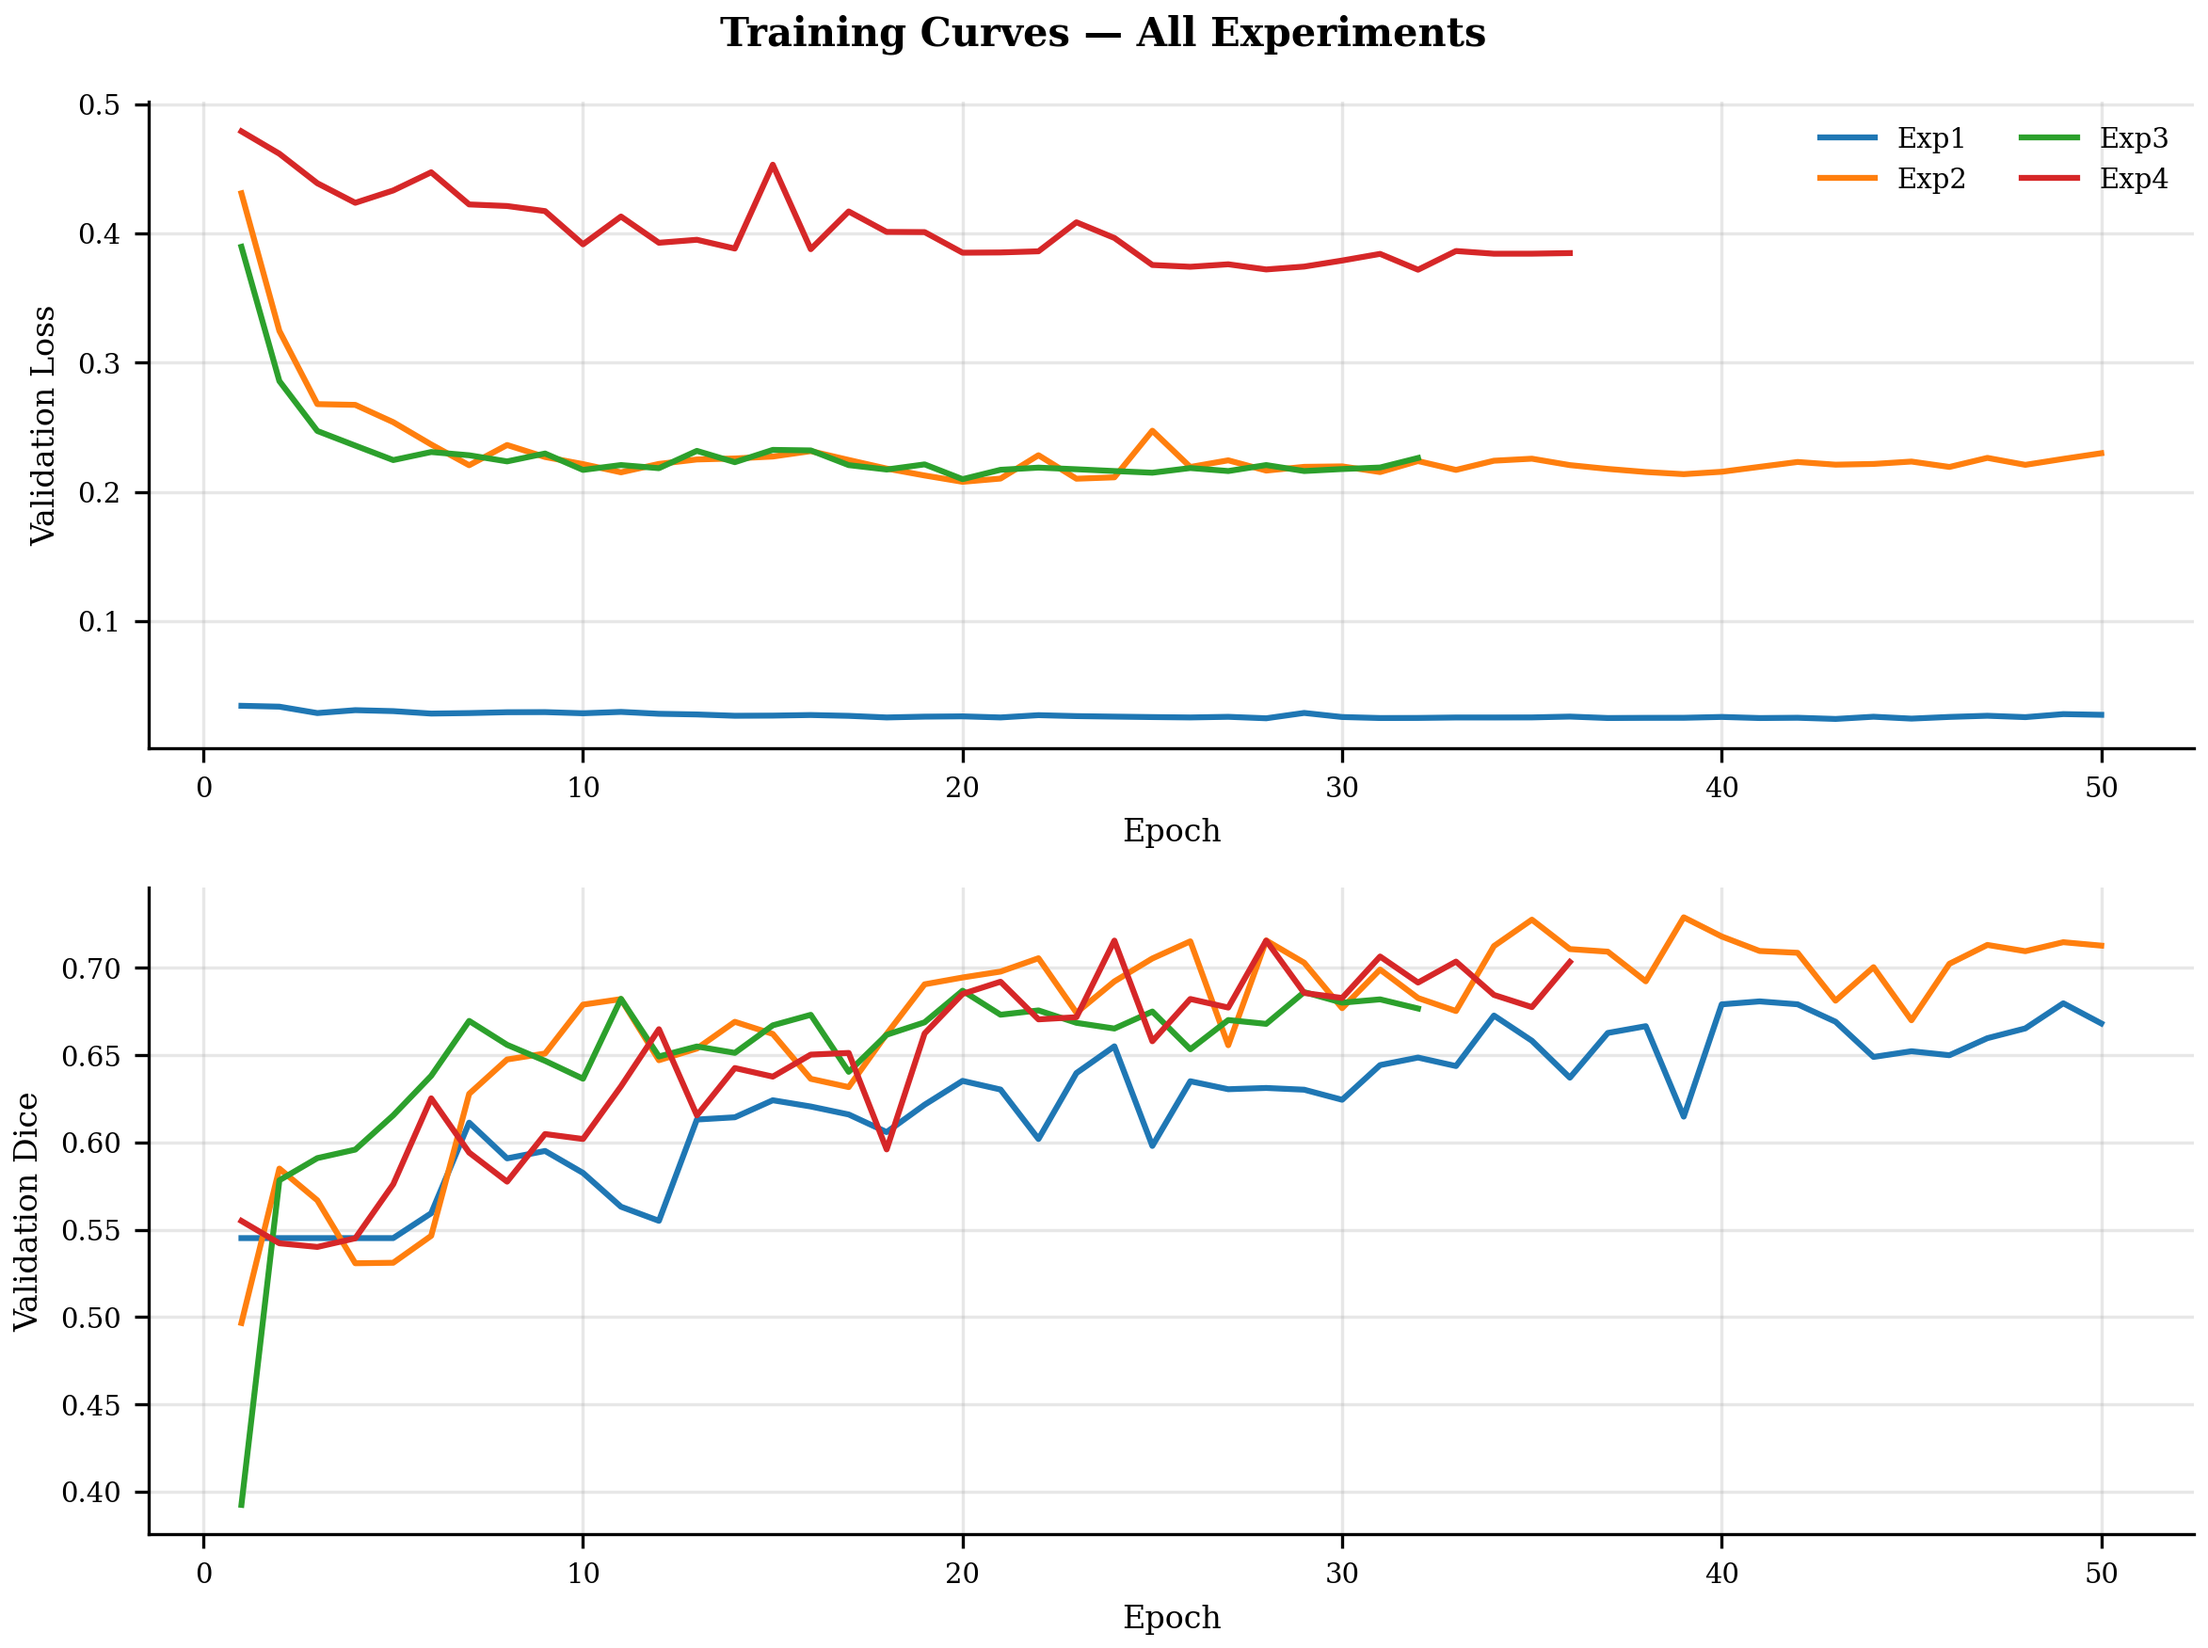
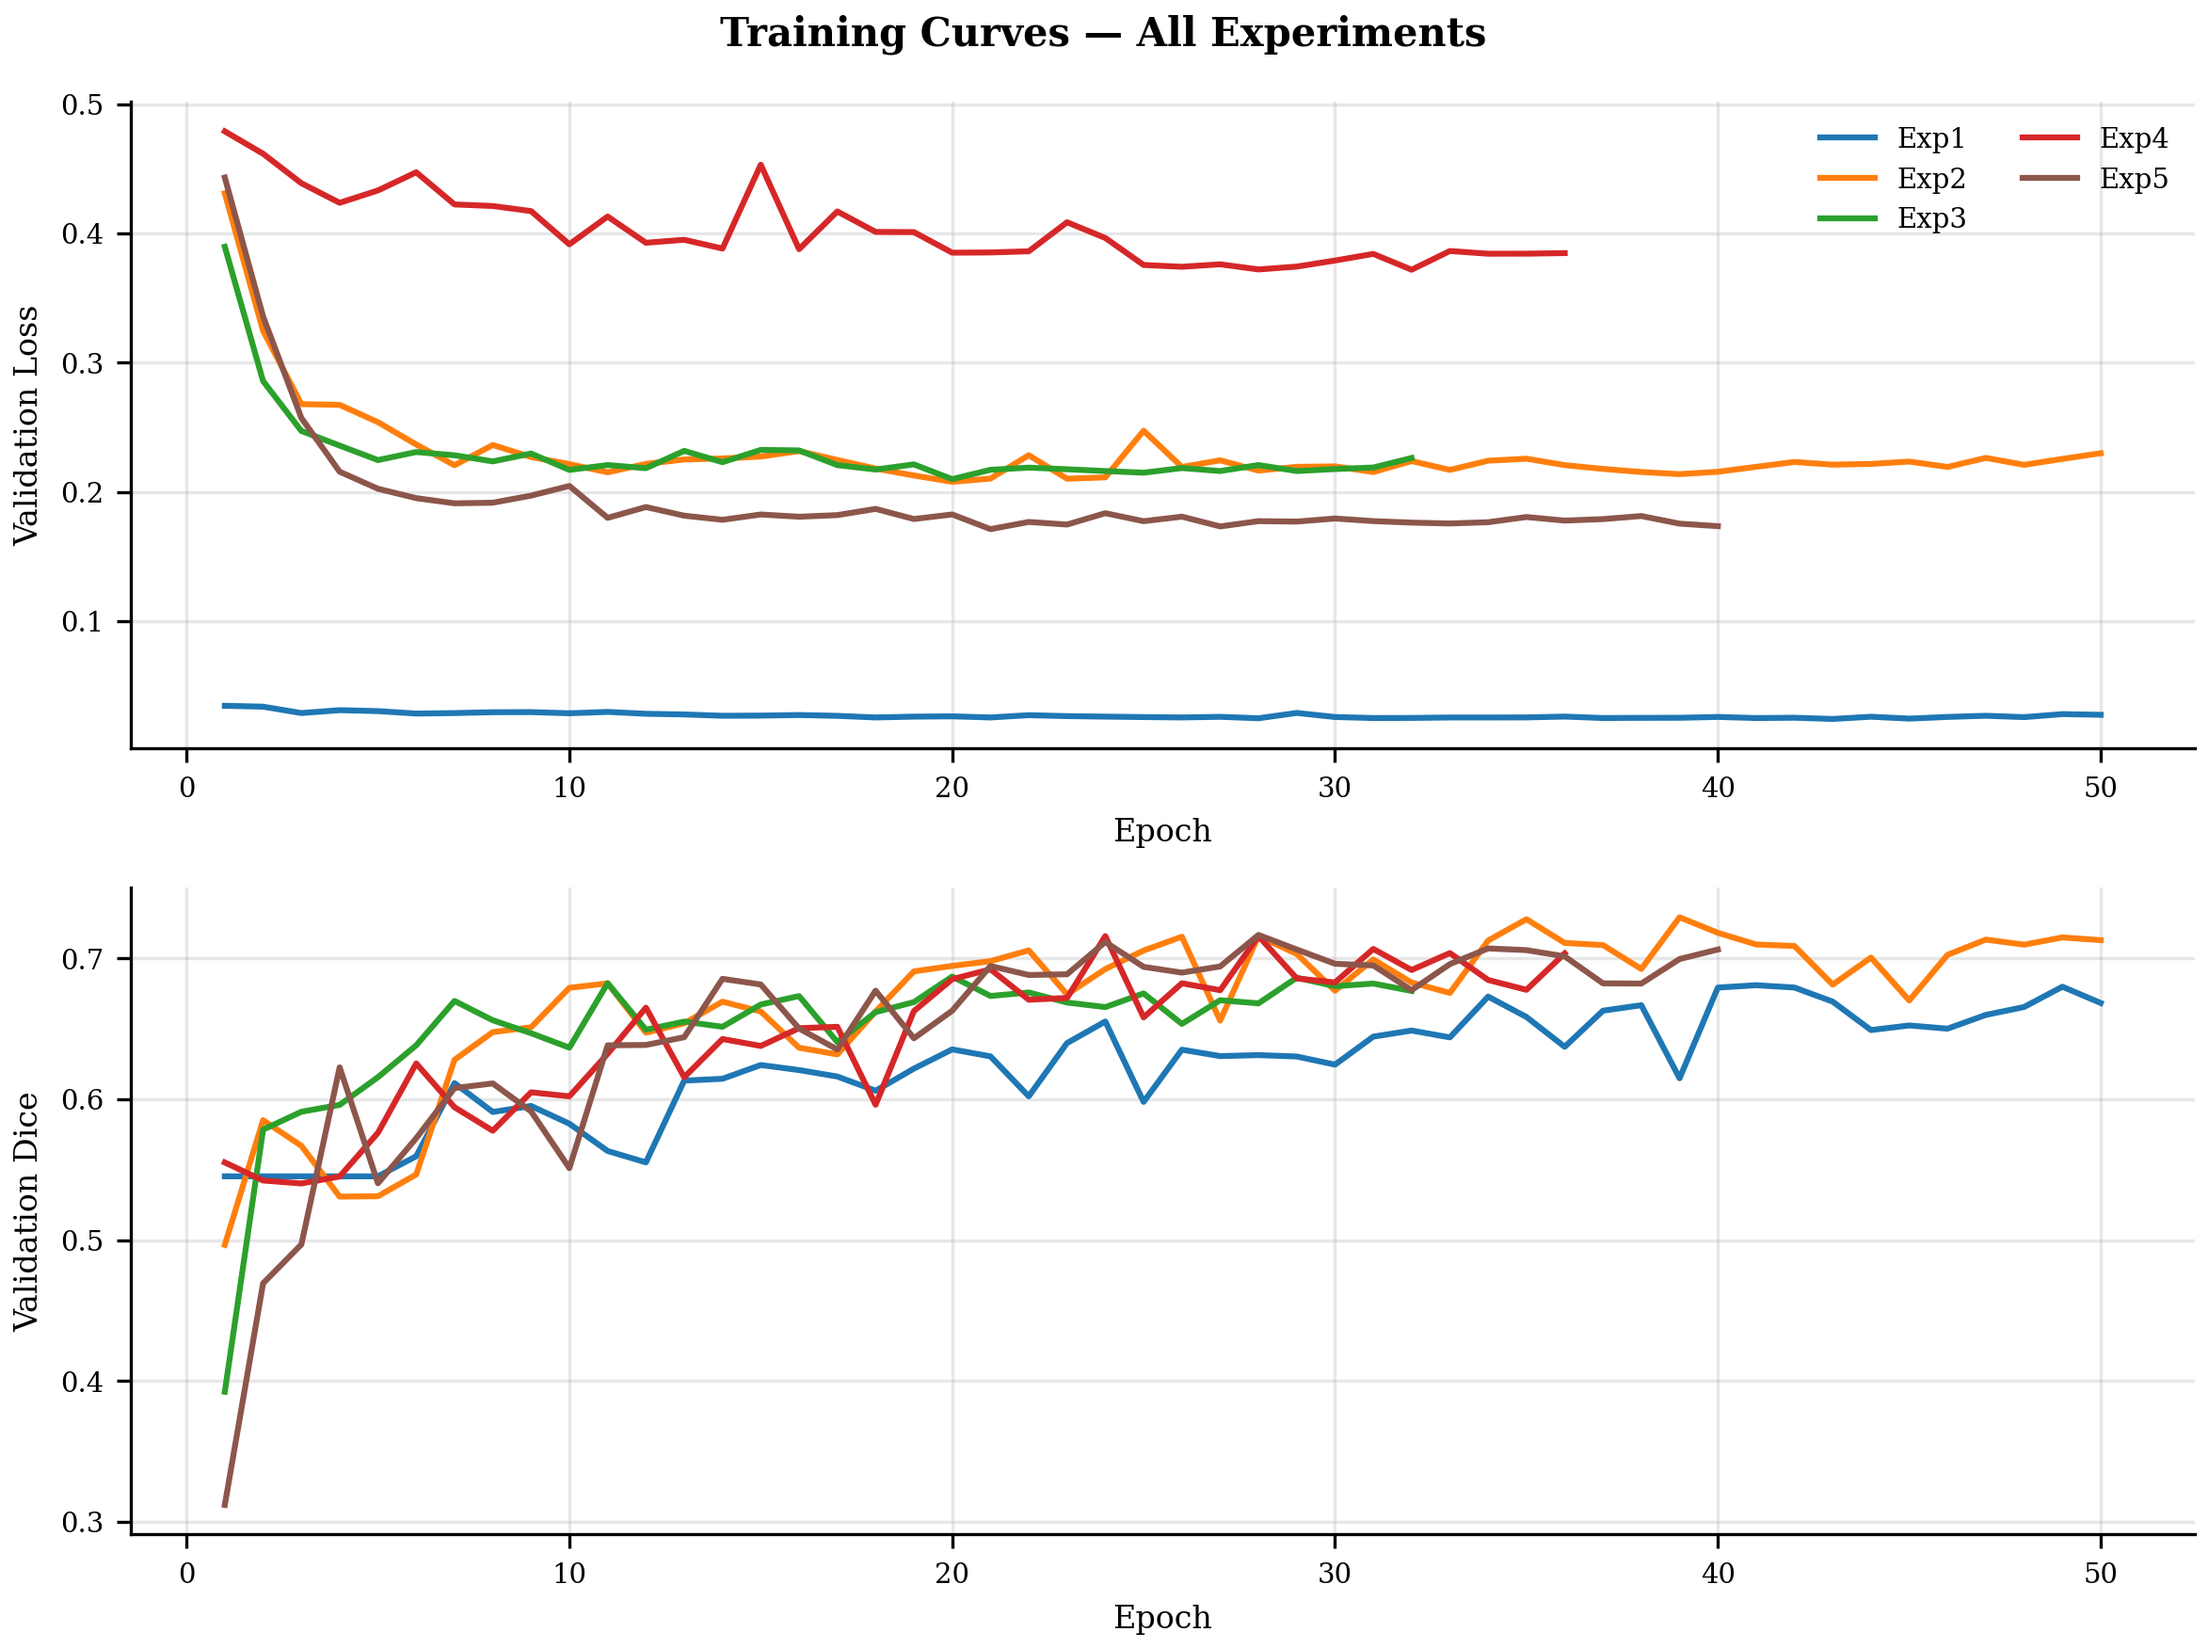
Regenerate training curves with all 5 experiments

diff --git a/report.tex b/report.tex
@@ -183,9 +183,7 @@ Training curves for all experiments are shown in Figure~\ref{fig:curves}.
     \centering
     \includegraphics[width=\textwidth]{figures3/training_curves.pdf}
     \caption{Validation loss and validation Dice score across training epochs for
-    Experiments 1--4. The training history for Experiment 5 was not available
-    as the job completed without saving epoch logs; its final checkpoint was
-    preserved and used for test evaluation.}
+    all five experiments.}
     \label{fig:curves}
 \end{figure}
 
